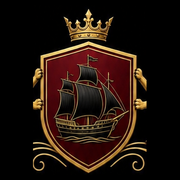
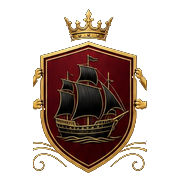
App-Symbol: schwarzer Hintergrund durchsichtig
Claude-Session: https://claude.ai/code/session_01VercX2gmkyUir6NgUgMamS

diff --git a/public/sw.js b/public/sw.js
@@ -1,5 +1,5 @@
 // Service Worker: App-Shell offline verfügbar, API-Aufrufe immer frisch aus dem Netz.
-const CACHE = "bsh-shell-v7";
+const CACHE = "bsh-shell-v8";
 const SHELL = ["/", "/chancen", "/watchlist", "/depot", "/mehr", "/echochart", "/einstellungen", "/manifest.webmanifest", "/icon-192.png", "/background.webp", "/background.jpg"];
 
 self.addEventListener("install", (e) => {
